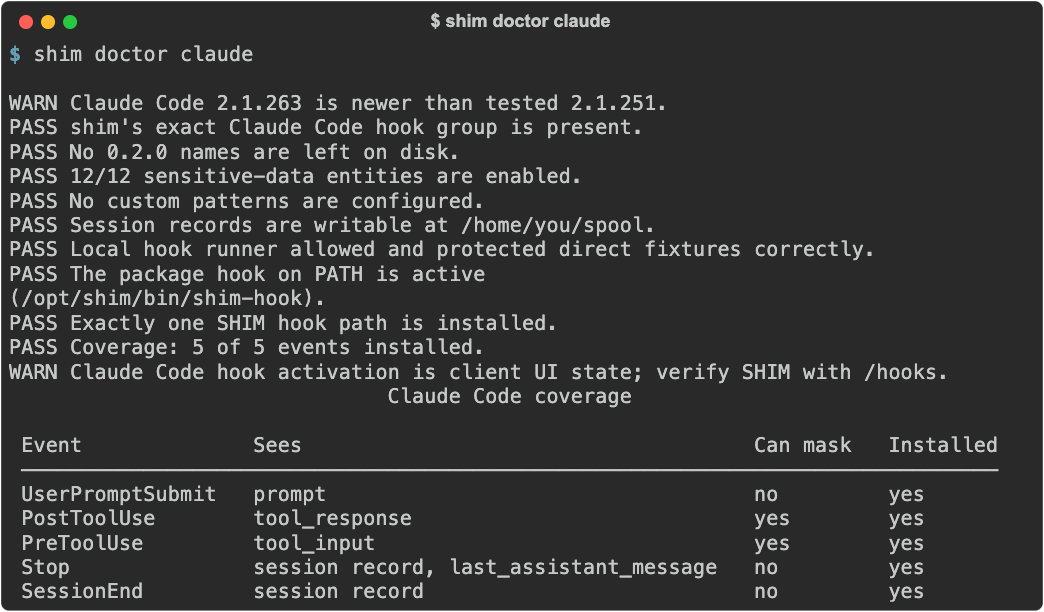
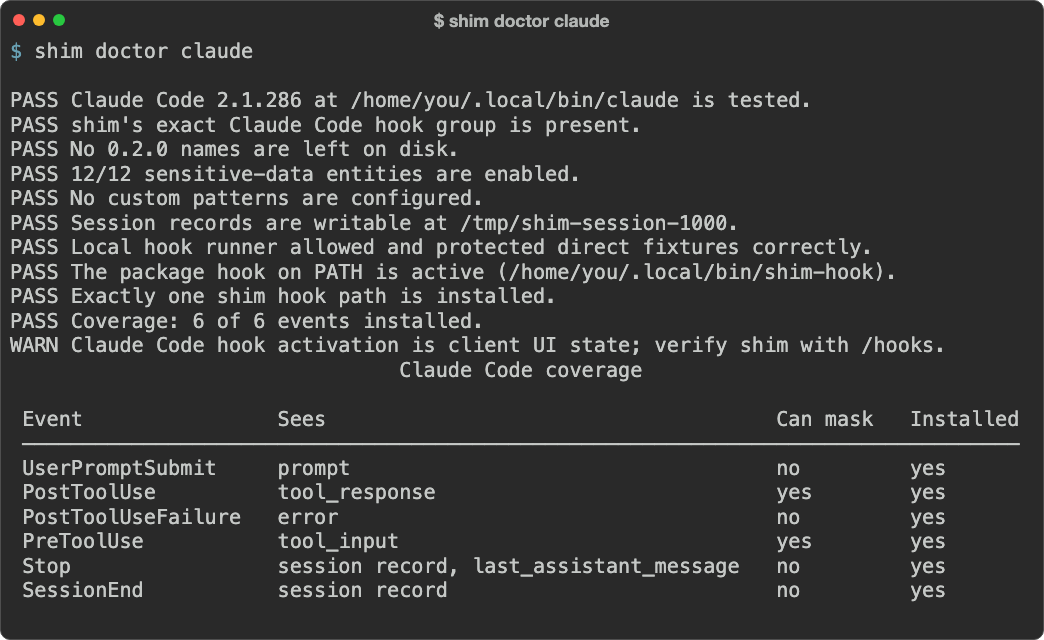
release: 1.0.3
Version 1.0.3 in the package, the lock file and the three plugin
manifests, with the archive rebuilt. Claude Code is tested at 2.1.286,
where the detector and hook changes were checked live, the percent-sign
fix and the quieter rule for code among them. The compatibility record
gains the 1.0.3 evidence: the gate, Claude Code live, the suite and a
pipx install on Python 3.14, and the Windows simulation; Codex, Copilot
and VS Code were not re-run, each with its reason. The README counts are
current (2,300+ tests, 663 corpus cases, 420 contract tests), its doctor
screenshot shows 1.0.3, and its documentation list links the 1.0.1, 1.0.2
and 1.0.3 release notes; the first two were missing.

Changed region(s): [[0.0, 0.0, 1.0, 1.0]]

diff --git a/tests/clients/claude/test_claude_settings.py b/tests/clients/claude/test_claude_settings.py
@@ -34,7 +34,7 @@ def test_claude_code_settings_use_shell_free_exec_form(tmp_path: Path) -> None:
     assert tool_hook_group(interpreter) == {"matcher": "*", "hooks": [handler]}
     assert HOOK_TIMEOUT_SECONDS == 30
     assert MINIMUM_CLAUDE_VERSION == "2.1.210"
-    assert TESTED_CLAUDE_VERSION == "2.1.263"
+    assert TESTED_CLAUDE_VERSION == "2.1.286"
 
 
 def test_claude_code_registers_the_prompt_tool_and_session_events(

diff --git a/src/shim_cli/clients/claude/settings.py b/src/shim_cli/clients/claude/settings.py
@@ -14,7 +14,7 @@ from shim_cli.clients.hook_settings import (
 )
 from shim_cli.session import SESSION_EVENTS
 
-TESTED_CLAUDE_VERSION = "2.1.263"
+TESTED_CLAUDE_VERSION = "2.1.286"
 MINIMUM_CLAUDE_VERSION = "2.1.210"
 HOOK_TIMEOUT_SECONDS = 30
 MAX_CONFIG_BYTES = MAX_SETTINGS_BYTES

diff --git a/src/shim_cli/__init__.py b/src/shim_cli/__init__.py
@@ -1,4 +1,4 @@
 import sys
 
-__version__ = "1.0.2"
+__version__ = "1.0.3"
 WINDOWS = sys.platform == "win32"

diff --git a/docs/compatibility.md b/docs/compatibility.md
@@ -166,6 +166,23 @@ payload Codex handed it, captured and replayed with `user-prompt = "enforce"`,
 was answered with `shim blocked this prompt: SECRET (1).`
 The README therefore sends Codex users to `shim install codex`.
 
+## 1.0.3 release evidence
+
+Recorded 1 October 2026 on macOS 26.4 arm64, CPython 3.13.5, uv 0.12.5, on the
+1.0.3 candidate with the rebuilt `bin/shim.pyz`. The hook ran from the candidate,
+installed into a scratch project's own `.claude/settings.json` and driven with
+`claude -p --setting-sources project`; every value was synthetic.
+
+| Evidence | Recorded result |
+| --- | --- |
+| Local gate | `python scripts/check.py` green: 2,434 tests, lint, format, types, build. |
+| Claude Code | tested: 2.1.286. **Named secrets:** a `Read` of a `.env` reached the model as `AWS_SECRET_ACCESS_KEY=<SECRET_2>`, `SLACK_BOT_TOKEN=<SECRET_3>`, `LEDGER_API_TOKEN=<SECRET_4>`, with `MAX_TOKENS=4096` left as it was, and the model answered "A hook masked the sensitive values before they reached me." **Connection strings:** the model was handed `postgresql://<DB_URI_1>@db-prod.kasa.example.internal:5432/kasa` and named the production host. **Failed commands:** `cat .env && cat config/local_overrides.env` showed `shim: found DB_URI (1), EMAIL (1), SECRET (5) in a failed Bash. Claude Code does not let this output be masked; the model has these values.` and the summary line `unmasked 5 SECRET (failed Bash)`. **`@` files:** `@.env explain these variables` showed `shim: @.env holds DB_URI (1), SECRET (5), EMAIL (1). …`; under `enforce` the prompt was stopped and no value reached the transcript; `@q.sql` holding `LIKE '%admin%'` was read, found clean and answered with no shim line; a 314 KB `@big.log` was not attached by the client, and shim said nothing. **Code that names a secret:** a `Read` of a Python file holding `api_key_header = "X-Api-Key"`, `token_type = "Bearer"`, `self.auth_token = settings.auth_token`, `token_ids = tokenizer.encode(text)` and one `LEDGER_API_TOKEN` masked only the token (`masked 1 SECRET (Read client.py)`), and the model quoted the rest verbatim. **Percent signs:** under `enforce`, a prompt holding `LIKE '%admin%'` and `echo %DATE%` was answered, not withheld. **Red team:** 27 sessions in four rounds worked as a user would on a synthetic project (`.env`, docker-compose, Helm values, Kubernetes secrets, JSON and Django settings, tfvars, `.npmrc`, logs, a customer CSV, git history and a planted prompt injection): onboarding, `git diff` and `git log -p`, a sub-agent, edits and copies of `.env`, a password grep, `base64 .env`, base64 in Helm values, a JSON file and an `export` line, a grep for base64 blobs, a registry secret and a stack trace. Four gaps found there were fixed before this release (YAML passwords read as type names, base64 output, base64 beside a path in grep output, a wrapped base64 block in grep's numbered output). What still reached the model was values the agent disguised on request (a hex dump, spaced characters) or decoded and reprinted without their key, files attached with `@` under the default `warn`, and a pasted key, which shim reports. |
+| Codex CLI | tested: 0.159.0. Not re-run: 1.0.3 changes no Codex hook file, installer or message. The detector changes are the same code for every client and are graded by the corpus. |
+| GitHub Copilot CLI | tested: 1.0.83. Not re-run, for the same reason: neither the `com.github.copilot` hook file nor `shim install copilot` changed. |
+| VS Code | tested: 1.137.0. Not re-run: the plugin's `com.github.copilot/hooks/hooks.json`, which VS Code reads, is unchanged. A `~/.claude/settings.json` written by `shim install claude`, which VS Code also reads by default, gains a `PostToolUseFailure` entry, and VS Code passes over an event name it does not know: in the 1.139.1 bundle its hook-file event map has no `PostToolUseFailure`, and an unmapped key is skipped. |
+| Python 3.14 | The full suite on CPython 3.14.3: 2,434 passed. `pipx install --python python3.14` of the built 1.0.3 wheel: `shim --version` answered `shim 1.0.3`, and `shim doctor claude` ran on Python 3.14.3 (`PASS Local hook runner allowed and protected direct fixtures correctly.`). |
+| Windows | Simulated, not run: `sys.platform` set to `win32`, `fcntl` and the `SIGALRM` timer API removed. The hook printed `shim: shim-cli does not support Windows yet; nothing was inspected.`, wrote nothing to stdout and exited 0; the launcher did the same with `uname` printing `MINGW64_NT-10.0-19045`; `shim install claude` refused with exit 2. |
+
 ## 1.0.2 release evidence
 
 Recorded 29 September 2026 on macOS 26.4 arm64, CPython 3.13.5, uv 0.12.5, on the

diff --git a/README.md b/README.md
@@ -537,19 +537,19 @@ Every figure here was measured on the released build, not estimated.
 
 | | |
 | --- | --- |
-| Tests | **1,900+**, one command: `python scripts/check.py` — lock, lint, format, types, suite, wheel, sdist |
+| Tests | **2,300+**, one command: `python scripts/check.py` — lock, lint, format, types, suite, wheel, sdist |
 | Hook cost | **70 ms** median end to end, interpreter start included; **42 ms** for a session summary |
 | With 32 custom patterns | **+0.6 ms** median against the same prompt with none |
-| Detector corpus | **589 cases**, graded on exact redacted output rather than category presence |
+| Detector corpus | **663 cases**, graded on exact redacted output rather than category presence |
 | Release evidence | SBOM, provenance and Sigstore bundles on the release page from 0.3.2, with the `gh attestation verify` command in [the compatibility record](https://github.com/GetSHIM/shim-cli/blob/main/docs/compatibility.md#100-release-evidence) |
 
 <p align="center">
   <img src="https://raw.githubusercontent.com/GetSHIM/shim-cli/main/docs/assets/shots/shim-doctor.png" width="880"
-       alt="shim doctor claude: twelve checks, each PASS or WARN — the hook group is present, no 0.2.0 names are left, 12 of 12 entities are enabled, the runner protected a sensitive fixture, and coverage is 5 of 5 events.">
+       alt="shim doctor claude: eleven checks, ten PASS and one WARN — Claude Code 2.1.286 is the tested version, the hook group is present, no 0.2.0 names are left, 12 of 12 entities are enabled, the runner protected a sensitive fixture, and coverage is 6 of 6 events, with a table of what each event sees and can mask.">
 </p>
 
 Hook output is asserted byte for byte, not by shape: a safe event must produce
-exactly zero bytes on stdout and stderr. 346 contract tests hold that, plus the
+exactly zero bytes on stdout and stderr. 422 contract tests hold that, plus the
 import boundaries, the rule that no committed file carries the machine it was
 written on, and a byte-identical rebuild of the shipped plugin archive.
 
@@ -601,6 +601,9 @@ reinstalling later finds your entity choices and custom patterns still there.
 - [Architecture](https://github.com/GetSHIM/shim-cli/blob/main/docs/architecture.md)
 - [Compatibility](https://github.com/GetSHIM/shim-cli/blob/main/docs/compatibility.md)
 - [Privacy](https://github.com/GetSHIM/shim-cli/blob/main/docs/privacy.md)
+- [1.0.3 release notes](https://github.com/GetSHIM/shim-cli/blob/main/docs/releases/1.0.3.md)
+- [1.0.2 release notes](https://github.com/GetSHIM/shim-cli/blob/main/docs/releases/1.0.2.md)
+- [1.0.1 release notes](https://github.com/GetSHIM/shim-cli/blob/main/docs/releases/1.0.1.md)
 - [1.0.0 release notes](https://github.com/GetSHIM/shim-cli/blob/main/docs/releases/1.0.0.md)
 - [0.3.3 release notes](https://github.com/GetSHIM/shim-cli/blob/main/docs/releases/0.3.3.md)
 - [0.3.2 release notes](https://github.com/GetSHIM/shim-cli/blob/main/docs/releases/0.3.2.md)

diff --git a/docs/releases/1.0.3.md b/docs/releases/1.0.3.md
@@ -1,5 +1,17 @@
 # shim-cli 1.0.3
 
+1.0.3 closes five gaps a field test of 1.0.2 found, each checked again on Claude
+Code 2.1.286: secrets named by their key, connection strings that lost their
+host, the output of a command that failed, files attached with `@`, and Python
+3.14. On Windows, which shim-cli does not support, it now says so instead of
+withholding every prompt. And a `%` that is not an escape, as in
+`LIKE '%admin%'`, no longer makes a prompt unreadable to shim.
+
+Upgrading is `uv tool upgrade shim`, or `/plugin update shim-cli@shim-cli` in
+Claude Code. If you installed the hook with `shim install claude`, run it once
+more after upgrading: it adds the entry for failed commands. Until you do,
+`shim status claude` reports the hook as not installed.
+
 ## Secrets with a name
 
 On 29 September a live Claude Code session read a synthetic `.env` with shim
